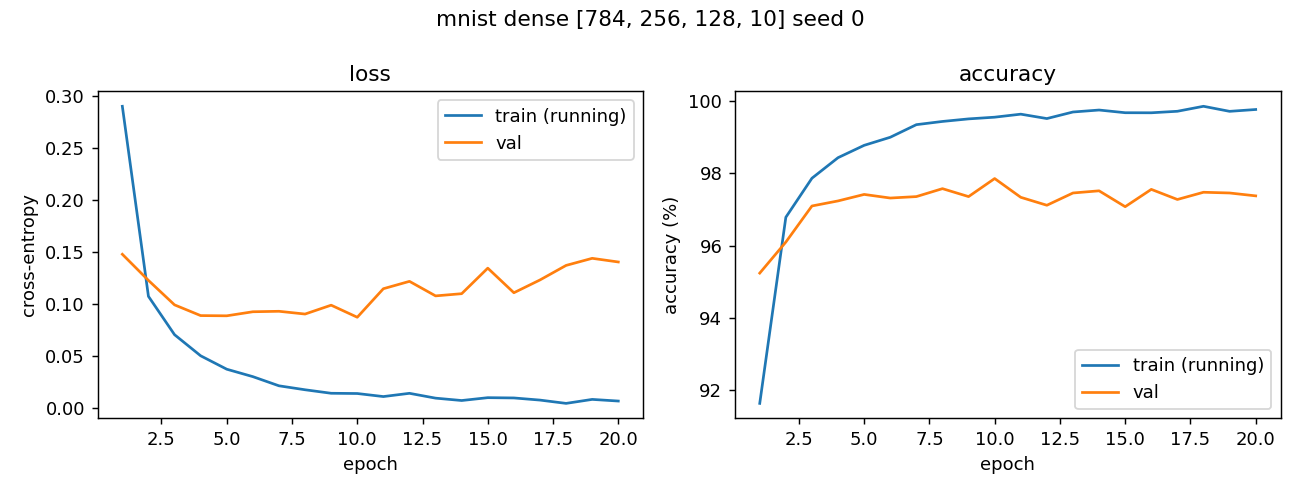
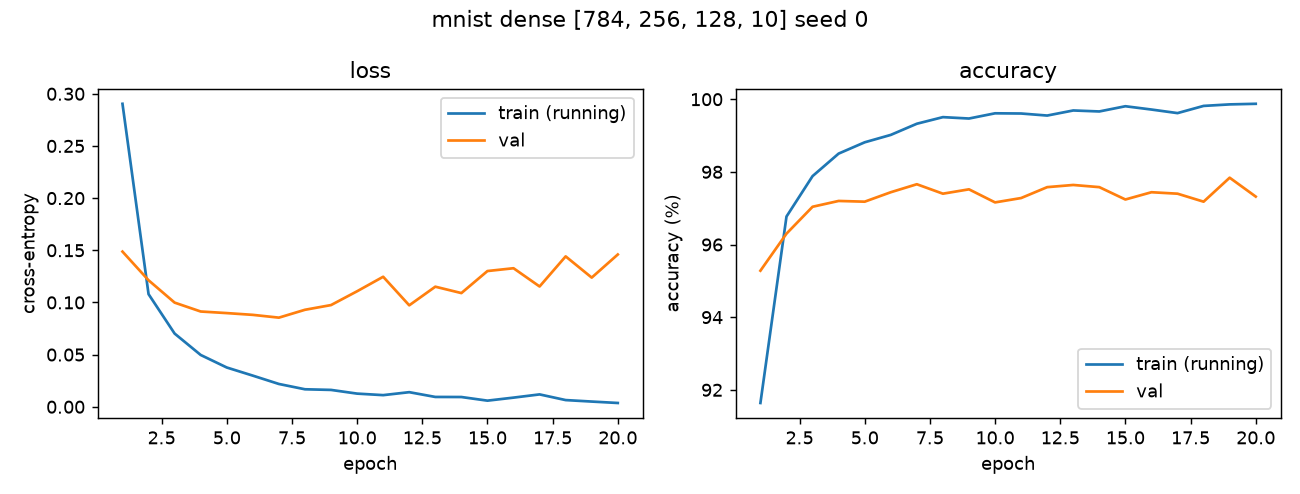
README: Part 3/4 commands, results, claim; Part 2 re-run locally
Local run with pinned threads gives 97.87% (Colab gave 97.57%).

diff --git a/README.md b/README.md
@@ -10,42 +10,84 @@ From-scratch NumPy reverse-mode autodiff + a network that prunes itself during t
 
 ## Layout
 ```
-engine/   Tensor, Parameter (masked weights), ops, finite-difference gradcheck
-nn/       layers + optimizers (Adam)                      
-prune/    importance criteria, schedules, mask manager    (Step 3)
-train/    data loading + training loops                   (Step 2+)
-tests/    gradient checks, broadcast, softmax-CE, masked-weight correctness
+engine/    Tensor, Parameter (masked weights), ops, finite-difference gradcheck
+nn/        layers, mask-aware Adam, sparse inference path (compaction + CSR)
+prune/     importance criteria (saliency, fisher, magnitude), cubic schedule, mask manager + regrowth
+train/     data, training loop, Part 2/3 scripts, sweep, summary, Pareto, cost benchmark
+tests/     gradient checks, broadcast, softmax-CE, masked-weight correctness, pruning, sparse path
+results/   raw numbers + plots: part2_*, part3/ (every run), part4/ (Pareto, cost, saved models)
 ```
 
 ## Run
 ```bash
-uv venv && uv pip install -r requirements.txt      # or: pip install -r requirements.txt
-python -m pytest -q                                  # everything
-python -m pytest -q tests/test_gradcheck.py          # gradient-check suite (Part 1)
-python -m pytest -q tests/test_masked.py             # masked-weight correctness (Part 1)
+uv venv --python 3.12 && uv pip install -r requirements.txt   # or: pip install -r requirements.txt (Python >= 3.10)
+python -m pytest -q                                  # all tests
+python -m pytest -q tests/test_gradcheck.py          # Part 1: gradient-check suite
+python -m pytest -q tests/test_masked.py             # Part 1: masked-weight correctness
 python -m tests.run                                  # stdlib-only fallback runner (no pytest needed)
-
-python -m train.train_dense --dataset mnist --epochs 20 --seed 0   # Part 2: dense baseline + learning curve
-                                                                    # (first run downloads MNIST via sklearn, caches data/mnist_784.npz)
-python -m train.init_study                                          # init justification numbers -> results/init_study.json
-
-python -m train.train_prune --target 0.9 --criterion saliency --seed 0    # Part 3: self-pruning run (90% of weights removed)
-python -m train.train_prune --target 0.9 --criterion magnitude --seed 0   # same protocol, magnitude baseline
-python -m train.train_prune --target 0 --seed 0                           # same protocol, no pruning (dense reference)
 ```
-Part 3 protocol (identical for all three): 15 epochs; epochs 0-2 dense warmup, 2-10 cubic sparsity ramp with masks
-recomputed every 100 steps, 10-15 fine-tune with masks frozen at exactly the target; final-epoch model, test touched once.
-Outputs go to `results/part3/`.
-Training uses float32; gradient checks run in float64 (see DESIGN.md section 5).
+
+**Part 2: dense training + learning curve** (first run downloads MNIST via sklearn and caches `data/mnist_784.npz`)
+```bash
+python -m train.train_dense --dataset mnist --epochs 20 --seed 0     # -> results/part2_mnist_seed0.{json,png}
+python -m train.init_study                                            # init justification -> results/init_study.json
+```
+
+**Part 3: self-pruning run** (Fisher criterion, 90% of weights removed)
+```bash
+python -m train.train_prune --target 0.9 --criterion fisher --seed 0  # -> results/part3/fisher_s90_seed0.{json,png}
+```
+Other criteria with the same protocol: `--criterion saliency | magnitude`, `--target 0` for the dense reference,
+`--regrow` for regrowth. Protocol (identical for every run): 15 epochs; epochs 0-2 dense warmup, 2-10 cubic sparsity
+ramp with masks recomputed every 100 steps, 10-15 fine-tune with masks frozen at exactly the target; final-epoch
+model, test set touched once.
+
+**Part 4: Pareto sweep** (fisher vs magnitude, 0/50/75/90/95%, seeds 0-2; ~25 runs, resumable, ~3 min each)
+```bash
+python -m train.sweep --targets 0 0.5 0.75 0.9 0.95 --criteria fisher magnitude --seeds 0 1 2 --jobs 6 && python -m train.pareto
+```
+-> `results/part4/pareto.{json,png}`. The 90% comparison over 5 seeds (the falsifiable claim) and its paired tests:
+```bash
+python -m train.sweep --targets 0 0.9 --criteria saliency fisher magnitude --seeds 0 1 2 3 4 --jobs 6 && python -m train.summarize
+```
+
+**Part 4: real cost measurement** (sparse-aware paths vs dense; single-threaded, batch sizes 1 / 32 / 1000)
+```bash
+python -m train.sweep --targets 0 0.5 0.75 0.9 0.95 --criteria fisher --seeds 0 --out results/part4 --save-model --jobs 5
+python -m train.sweep --targets 0.9 --criteria magnitude --seeds 0 --out results/part4 --save-model --jobs 1
+python -m train.bench_cost --models results/part4/models/*.npz       # -> results/part4/cost.json
+```
+Reproducibility: every `python -m train.*` command pins BLAS to one thread (thread count changes float summation order
+and therefore the final model; see DESIGN.md appendix C). Numbers reproduce bit-for-bit on the same BLAS build.
+Training uses float32; gradient checks run in float64.
+
+## Results (details and derivations in DESIGN.md, working log in notes.md)
+| at 90% sparsity, n = 5 seeds | test acc | live weights |
+|---|---|---|
+| dense (same 15-epoch protocol) | 97.81 ± 0.12% | 234,752 |
+| saliency `EMA|w·g|` | 97.85 ± 0.10% | 23,475 |
+| fisher `w²·EMA(g²)` (the method) | 97.97 ± 0.13% | 23,475 |
+| magnitude `|w|` (baseline) | **98.13 ± 0.05%** | 23,475 |
+
+**Falsifiable claim.** At 90% sparsity on MNIST (784-256-128-10, this protocol), magnitude pruning retains
+98.13 ± 0.05% test accuracy vs 97.85 ± 0.10% for first-order saliency, averaged over 5 seeds; paired difference
+−0.28 pp, negative on 5/5 seeds, t = −6.64 (4 df). Fisher vs magnitude: −0.16 pp, t = −2.51 (not significant).
+Our importance-based criteria do **not** beat magnitude on accuracy here.
+
+**Cost.** Only structural removal turned into wall-clock speedup. Fisher's 90% model compacts to 434-203-126-10 and runs
+1.50× faster than dense at batch 1000 (2.43× at 95%), identical predictions. Magnitude's 90% model compacts to
+762-256-127-10 and is not faster (0.74×). Our CSR kernel does 10× fewer multiply-adds at 90% but is slower than dense
+BLAS at every batch size: in NumPy, unstructured sparsity is not a speedup.
 
 ## Status
 - [x] Step 1: autodiff engine, broadcast-correct backward, fused softmax-CE, mask-aware `Parameter` + Adam, tests
-- [x] Step 2: MLP (784-256-128-10, ReLU/He), Adam, loop, curve — dense MNIST seed 0, 20 epochs:
-      **test acc 97.57%, test loss 0.121** (final-epoch model, no checkpoint picking; `results/part2_mnist_seed0.json`).
-      Val acc peaks at 97.86% (epoch 10); val loss bottoms at 0.0875 (epoch 10) and rises to 0.141 by epoch 20
-      while train loss falls to 0.007 — the dense model overfits after ~epoch 10.
-- [ ] Step 3: saliency pruning + cubic ramp + regrowth
-- [ ] Step 4: Pareto sweep, sparse-aware cost measurement, seeds, falsifiable claim
+- [x] Step 2: MLP (784-256-128-10, ReLU, He/LeCun init), Adam, loop, learning curve. Dense MNIST seed 0, 20 epochs:
+      **test acc 97.87%, test loss 0.100** (final-epoch model; `results/part2_mnist_seed0.json`). Val loss bottoms at
+      0.085 (epoch 7) and rises to 0.146 by epoch 20 while train loss falls to 0.004: the dense model overfits.
+      (An earlier Colab run of the same command gave 97.57%; different BLAS, see notes.md.)
+- [x] Step 3: saliency / Fisher / magnitude criteria, cubic ramp, global allocation with per-layer floor, exact hard
+      budget, regrowth with grace period (tested; no accuracy effect at 90%)
+- [x] Step 4: Pareto sweep 0-95% (3 seeds), 5-seed paired comparison at 90%, sparse-aware cost measurement, falsifiable claim
 
 ## Masked weights in one paragraph
 `Parameter.masked()` returns `where(mask, w, 0)`. Backward stores **two** gradients: `grad = mask·g`
